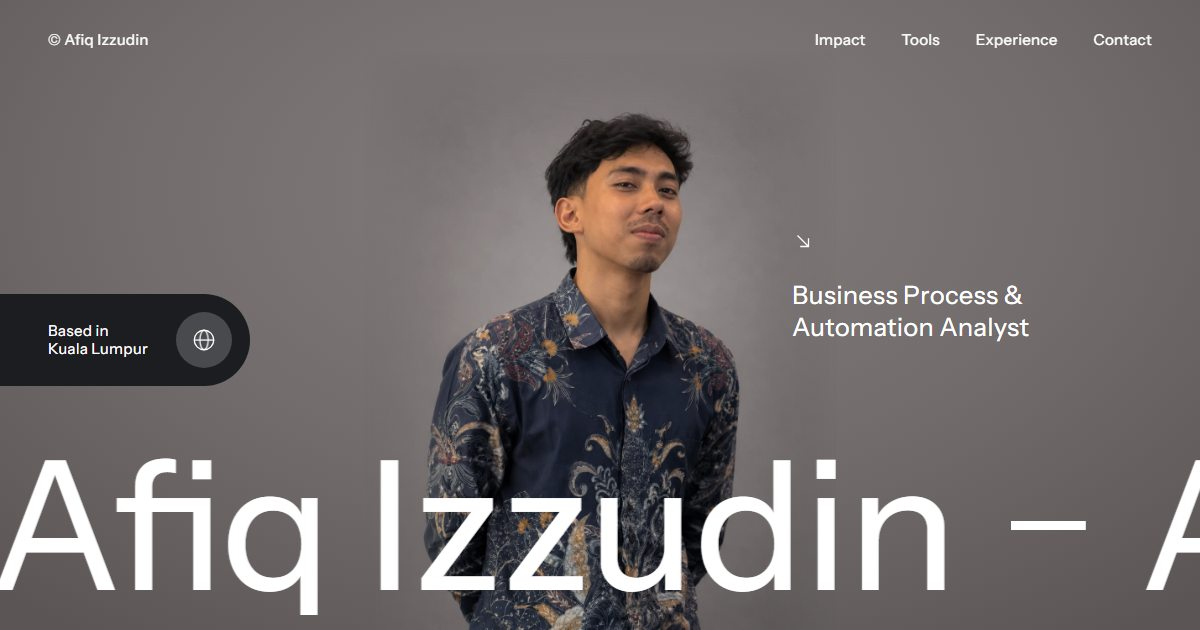
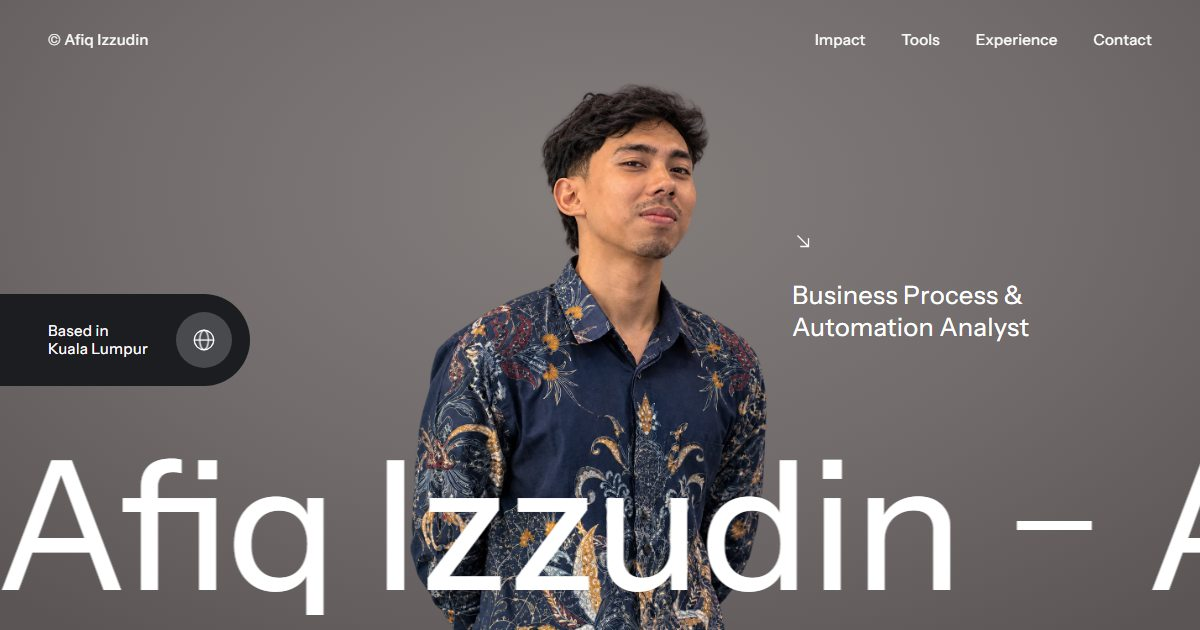
Revise copy and use the cut-out portrait
Hero uses a transparent cut-out so the background matches. Copy reviewed line by line: clearer statement, Worldline International (M) naming, full degree title, award wording, TAT in the report result, no client count, Oxford commas, and plainer section titles. Impact cards now share one style and turn navy on hover or open; the closing note is centred. Footer avatar is centred on the face, the Version block is gone, and the OG image is refreshed.

diff --git a/index.html b/index.html
@@ -4,7 +4,7 @@
   <meta charset="utf-8">
   <meta name="viewport" content="width=device-width, initial-scale=1">
   <title>Afiq Izzudin · Business Process &amp; Automation Analyst</title>
-  <meta name="description" content="I help growing businesses stop losing customers to a dated website and hours to copy-paste work, without hiring a full IT team. Based in Kuala Lumpur.">
+  <meta name="description" content="I help growing businesses stop losing customers to an outdated website and losing hours to copy-paste work, without hiring a full IT team. Based in Kuala Lumpur.">
   <link rel="canonical" href="https://afiqizzudinnn.github.io/">
 
   <meta property="og:type" content="website">
@@ -71,9 +71,9 @@
 
     <section class="statement" aria-label="What I do">
       <div class="container statement__grid">
-        <p class="statement__text" data-reveal="words">I help growing businesses stop losing customers to a dated website and hours to copy-paste work, <em>without hiring a full IT team.</em></p>
+        <p class="statement__text" data-reveal="words">I help growing businesses stop losing customers to an outdated website and losing hours to copy-paste work, <em>without hiring a full IT team.</em></p>
         <div class="statement__side" data-reveal="up">
-          <p>Business Computing graduate. At Worldline I automated eKYC checks and audit reporting. Today I build automations and websites for growing teams.</p>
+          <p>I'm a Business Computing graduate. At Worldline International (M), I automated eKYC checks and audit reporting. Today, I build automations and websites for growing teams.</p>
           <a class="circle-btn" href="#impact"><span>See my impact</span></a>
         </div>
       </div>
@@ -81,11 +81,11 @@
 
     <section class="impact" id="impact" aria-labelledby="impact-title">
       <div class="container">
-        <p class="caption">Real impact at Worldline</p>
-        <h2 class="section-title" id="impact-title" data-reveal="words">Three automations, measured in minutes.</h2>
+        <p class="caption">Impact at Worldline International (M)</p>
+        <h2 class="section-title" id="impact-title" data-reveal="words">Three automations I led, and the time they saved.</h2>
 
         <div class="impact__grid">
-          <details class="impact-card impact-card--accent" data-reveal="up">
+          <details class="impact-card" data-reveal="up">
             <summary>
               <span class="impact-card__figure">30<span class="impact-card__arrow">→</span>5<small>min</small></span>
               <span class="impact-card__label">to review one eKYC application</span>
@@ -98,7 +98,7 @@
               <dt>What I did</dt>
               <dd>Built a Python tool that reads the documents with OCR and a vision AI model, so the checks run automatically.</dd>
               <dt>Result</dt>
-              <dd>5 minutes per application, 60 a day instead of 10, and accuracy up from 90% to 94%.</dd>
+              <dd>Down to 5 minutes per application, 60 applications a day instead of 10, and accuracy up from 90% to 94%.</dd>
             </dl>
           </details>
 
@@ -115,7 +115,7 @@
               <dt>What I did</dt>
               <dd>Built a Python and OCR tool that reads the PDFs and writes the data into a standard Excel layout.</dd>
               <dt>Result</dt>
-              <dd>Report turnaround cut in half, from 120 to 60 minutes.</dd>
+              <dd>Report turnaround time (TAT) cut in half, from 120 to 60 minutes per report.</dd>
             </dl>
           </details>
 
@@ -132,19 +132,19 @@
               <dt>What I did</dt>
               <dd>Built a Power Automate flow that captures each request from email straight into the log.</dd>
               <dt>Result</dt>
-              <dd>No more manual entry, faster logging and fewer errors.</dd>
+              <dd>No more manual entry, faster logging, and fewer errors.</dd>
             </dl>
           </details>
         </div>
 
-        <p class="impact__note" data-reveal="up">I led each project from requirements to go-live, with sign-off from the APAC AI team, solution architects, the Data Protection Officer, Legal and senior management. Company data stays private, so the stories are simplified.</p>
+        <p class="impact__note" data-reveal="up">I led each project from requirements to go-live, securing sign-off from the APAC AI team, solution architects, the Data Protection Officer, Legal, and senior management. To keep company data confidential, these stories are simplified.</p>
       </div>
     </section>
 
     <section class="tools" id="tools" aria-labelledby="tools-title">
       <div class="container">
         <p class="caption">Tools I built</p>
-        <h2 class="section-title" id="tools-title" data-reveal="words">Free tools for everyday office pain. Try them with sample data.</h2>
+        <h2 class="section-title" id="tools-title" data-reveal="words">Free tools for everyday office pain. Each one opens with sample data, ready to try.</h2>
 
         <ul class="tool-list">
           <li>
@@ -152,7 +152,7 @@
               <img class="tool-row__thumb" src="assets/tools/data-cleaner.jpg" alt="" width="960" height="600" loading="lazy">
               <span class="tool-row__name">Data Cleaner</span>
               <span class="tool-row__desc">Fixes a messy Excel export without retyping a cell.</span>
-              <span class="tool-row__meta">Est. 88 hours a year back</span>
+              <span class="tool-row__meta">Could save about 88 hours a year</span>
             </a>
           </li>
           <li>
@@ -160,7 +160,7 @@
               <img class="tool-row__thumb" src="assets/tools/report-merger.jpg" alt="" width="960" height="600" loading="lazy">
               <span class="tool-row__name">Report Merger</span>
               <span class="tool-row__desc">Turns every branch's report into one sheet and one summary.</span>
-              <span class="tool-row__meta">Est. 26 hours a year back</span>
+              <span class="tool-row__meta">Could save about 26 hours a year</span>
             </a>
           </li>
           <li>
@@ -187,7 +187,7 @@
     <section class="experience" id="experience" aria-labelledby="experience-title">
       <div class="container">
         <p class="caption">Experience</p>
-        <h2 class="section-title" id="experience-title" data-reveal="words">Business first, then the tech that serves it.</h2>
+        <h2 class="section-title" id="experience-title" data-reveal="words">Where I've worked so far.</h2>
 
         <ol class="timeline">
           <li class="timeline__item" data-reveal="up">
@@ -196,15 +196,16 @@
               <h3 class="timeline__role">Freelance Web &amp; Digital Solutions Consultant</h3>
               <p class="timeline__org">Self-employed, Kuala Lumpur</p>
             </div>
-            <p class="timeline__desc">Websites and landing pages for 5 clients, from requirements and UI/UX to hosting and SEO.</p>
+            <p class="timeline__desc">End-to-end websites and landing pages for clients, from requirements and UI/UX design to hosting and SEO.</p>
           </li>
           <li class="timeline__item" data-reveal="up">
             <span class="timeline__date">Aug 2025 - Jul 2026</span>
             <div>
               <h3 class="timeline__role">Card Centre Analyst</h3>
-              <p class="timeline__org">Worldline, Kuala Lumpur · joined as Business Process Analyst/Automation Intern</p>
+              <p class="timeline__org">Worldline International (M) Sdn Bhd, Kuala Lumpur</p>
+              <p class="timeline__org">Started as Business Process Analyst/Automation Intern</p>
             </div>
-            <p class="timeline__desc">Automated eKYC checks, audit reporting and request logging, from requirements to go-live.</p>
+            <p class="timeline__desc">Automated eKYC checks, audit reporting, and request logging, from requirements to go-live.</p>
           </li>
           <li class="timeline__item" data-reveal="up">
             <span class="timeline__date">Nov 2022 - May 2023</span>
@@ -220,7 +221,7 @@
               <h3 class="timeline__role">Freelance Graphic Designer</h3>
               <p class="timeline__org">Wiheppmy, Putrajaya</p>
             </div>
-            <p class="timeline__desc">On-brand marketing materials, from rough draft to client approval.</p>
+            <p class="timeline__desc">Designed on-brand marketing materials, from rough draft to client approval.</p>
           </li>
         </ol>
 
@@ -229,13 +230,13 @@
             <p class="caption">Awards</p>
             <ul>
               <li><b>Best CEO Award</b><span>PIKOM PowerPM Leadership 6.0, 2026</span></li>
-              <li><b>Spark Shout Out, twice</b><span>Worldline APAC, for process automation</span></li>
+              <li><b>Two-time Spark Shoutout Award recipient</b><span>Worldline, for living the values of its leadership model: delivering exceptional service and driving new ideas</span></li>
             </ul>
           </div>
           <div class="facts__col" data-reveal="up">
             <p class="caption">Education</p>
             <ul>
-              <li><b>Bachelor of Business Computing</b><span>Universiti Poly-Tech Malaysia, 2026</span></li>
+              <li><b>Bachelor of Information Technology (Honours) in Business Computing</b><span>Universiti Poly-Tech Malaysia, 2026</span></li>
               <li><b>Diploma in Computer Science</b><span>Universiti Poly-Tech Malaysia</span></li>
             </ul>
           </div>
@@ -252,7 +253,7 @@
     <div class="footer__curve" aria-hidden="true"></div>
     <div class="container">
       <div class="footer__head">
-        <span class="footer__avatar"><img src="assets/afiq.webp" alt="" width="1122" height="1402" loading="lazy"></span>
+        <span class="footer__avatar"><img src="assets/afiq.webp" alt="" width="1122" height="1402" loading="lazy" decoding="async"></span>
         <h2 class="footer__title">Let's work<br>together</h2>
       </div>
 
@@ -264,11 +265,10 @@
         <a class="pill-link pill-link--dark" href="mailto:afiqizzudin1204@outlook.my">afiqizzudin1204@outlook.my</a>
         <a class="pill-link pill-link--dark" href="https://www.linkedin.com/in/afiq-izzudin-27aaa936b">LinkedIn</a>
       </div>
-      <p class="footer__freelance">Also available for websites, landing pages and IT support for growing businesses.</p>
+      <p class="footer__freelance">Also available for websites, landing pages, and IT support for growing businesses.</p>
 
       <div class="footer__bottom">
-        <div><span class="caption">Version</span><span>2026 Edition</span></div>
-        <div><span class="caption">Local time</span><span id="local-time">Kuala Lumpur</span></div>
+        <div><span class="caption">Local time in Kuala Lumpur</span><span id="local-time">Kuala Lumpur</span></div>
         <div class="footer__socials">
           <span class="caption">Socials</span>
           <a href="https://www.linkedin.com/in/afiq-izzudin-27aaa936b">LinkedIn</a>

diff --git a/css/style.css b/css/style.css
@@ -19,7 +19,7 @@
   --navy: #1e3a8a;
   --navy-hover: #2747a8;
 
-  /* Sampled from the portrait's studio backdrop, so the photo blends into the hero. */
+  /* Warm studio grey behind the cut-out portrait. */
   --hero-center: #847e7d;
   --hero-mid: #716b6b;
   --hero-edge: #5b5655;
@@ -251,6 +251,7 @@ html.lenis body {
   color: var(--white);
 }
 
+/* A cut-out portrait with a transparent background, so it sits cleanly on the hero grey. */
 .hero__photo {
   position: absolute;
   bottom: 0;
@@ -259,14 +260,6 @@ html.lenis body {
   max-width: none;
   height: 92%;
   transform: translateX(-50%);
-  -webkit-mask-image:
-    linear-gradient(to right, transparent 0, #000 18%, #000 82%, transparent 100%),
-    linear-gradient(to bottom, transparent 0, #000 14%);
-  -webkit-mask-composite: source-in;
-  mask-image:
-    linear-gradient(to right, transparent 0, #000 18%, #000 82%, transparent 100%),
-    linear-gradient(to bottom, transparent 0, #000 14%);
-  mask-composite: intersect;
 }
 
 .hero__location {
@@ -502,9 +495,17 @@ html.lenis body {
   margin-top: clamp(40px, 6vw, 72px);
 }
 
+/* Every card starts the same; the one you hover or open turns navy, so only one stands out at a time. */
 .impact-card {
   border-radius: var(--radius-card);
   background: var(--paper);
+  transition: background-color 0.4s var(--ease-out), color 0.4s var(--ease-out);
+}
+
+.impact-card:hover,
+.impact-card[open] {
+  background: var(--navy);
+  color: var(--white);
 }
 
 /* The card opens like an accordion where the browser supports animating to auto height. */
@@ -559,6 +560,7 @@ html.lenis body {
 .impact-card__meta {
   color: var(--ink-muted);
   font-size: 13px;
+  transition: color 0.4s var(--ease-out);
 }
 
 .impact-card__toggle {
@@ -607,21 +609,18 @@ html.lenis body {
   margin: 0;
 }
 
-.impact-card--accent {
-  background: var(--navy);
-  color: var(--white);
-}
-
-.impact-card--accent .impact-card__meta,
-.impact-card--accent .impact-card__story dt {
+.impact-card:hover .impact-card__meta,
+.impact-card[open] .impact-card__meta,
+.impact-card[open] .impact-card__story dt {
   color: rgba(255, 255, 255, 0.65);
 }
 
 .impact__note {
-  max-width: 72ch;
-  margin-top: 32px;
+  max-width: 64ch;
+  margin: 40px auto 0;
   color: var(--ink-muted);
   font-size: 15px;
+  text-align: center;
 }
 
 /* ---------- Tools ---------- */
@@ -827,23 +826,26 @@ html.lenis body {
   gap: clamp(16px, 2vw, 28px);
 }
 
-/* A face crop of the hero portrait. */
+/* A face crop of the hero portrait: the photo is enlarged and the centre of the head
+   (about 56% across and 21% down the image) is moved to the centre of the circle. */
 .footer__avatar {
+  position: relative;
   flex: none;
   width: clamp(64px, 7vw, 110px);
   aspect-ratio: 1;
   overflow: hidden;
   border-radius: 50%;
-  background: var(--hero-mid);
+  background: var(--hero-center);
 }
 
 .footer__avatar img {
-  width: 100%;
-  height: 100%;
-  object-fit: cover;
-  object-position: 50% 0;
-  transform: scale(2.1);
-  transform-origin: 54% 20%;
+  position: absolute;
+  top: 50%;
+  left: 50%;
+  width: 200%;
+  max-width: none;
+  height: auto;
+  transform: translate(-55.7%, -20.5%);
 }
 
 .footer__title {
@@ -1008,6 +1010,7 @@ html.lenis body {
     grid-column: 1 / -1;
   }
 
+  /* On small screens the title sits over the busy batik pattern, so a soft shadow keeps it readable. */
   .hero__role {
     top: auto;
     right: auto;
@@ -1015,6 +1018,7 @@ html.lenis body {
     left: var(--gutter);
     width: auto;
     font-size: 20px;
+    text-shadow: 0 1px 14px rgba(0, 0, 0, 0.45);
   }
 
   .hero__arrow {
